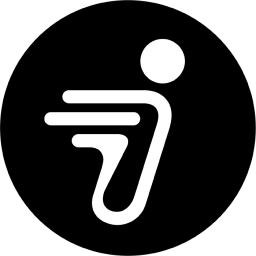
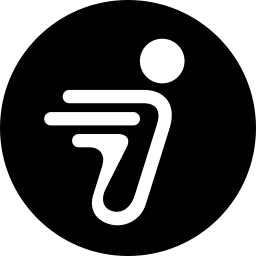
Prepare Ninebot branding and installation for the default catalog

diff --git a/scripts/docs_preview.py b/scripts/docs_preview.py
@@ -10,16 +10,23 @@ ROOT = Path(__file__).resolve().parents[1]
 
 
 def branding() -> bytes:
-    """Compare the existing packaged icon on light/dark surfaces, unchanged."""
+    """Compare the packaged brand images on light and dark surfaces."""
     return b"""<!doctype html><meta charset="utf-8"><title>Brand review</title>
 <style>body{font:18px system-ui;margin:32px;background:#ddd;color:#123}
-section{display:inline-block;padding:24px;margin:12px;border-radius:12px}
-.light{background:#fff}.dark{background:#18232b;color:#fff}img{margin:16px}</style>
-<h1>Existing Ninebot integration icon</h1><p>Repository asset, not a new logo.</p>
-<section class="light">Light<br><img src="/ninebot-brand/icon.png" width="96" alt="96px">
-<img src="/ninebot-brand/icon.png" width="32" alt="32px"></section>
-<section class="dark">Dark fallback<br><img src="/ninebot-brand/icon.png" width="96" alt="96px">
-<img src="/ninebot-brand/icon.png" width="32" alt="32px"></section>"""
+section{padding:24px;margin:12px 0;border-radius:12px;max-width:520px}
+.light{background:#fff}.dark{background:#18232b;color:#fff}
+img{margin:12px;vertical-align:middle;max-width:100%;height:auto}</style>
+<h1>Ninebot brand preview</h1>
+<section class="light">Light<br>
+<img src="/ninebot-brand/icon.png" srcset="/ninebot-brand/icon@2x.png 2x"
+     width="32" alt="Ninebot icon">
+<img src="/ninebot-brand/logo.png" srcset="/ninebot-brand/logo@2x.png 2x"
+     width="330" alt="Ninebot logo"></section>
+<section class="dark">Dark<br>
+<img src="/ninebot-brand/dark_icon.png" srcset="/ninebot-brand/dark_icon@2x.png 2x"
+     width="32" alt="Ninebot icon">
+<img src="/ninebot-brand/dark_logo.png" srcset="/ninebot-brand/dark_logo@2x.png 2x"
+     width="330" alt="Ninebot logo"></section>"""
 
 
 def document(language: str = "en", scale: str = "1") -> bytes:
@@ -44,9 +51,19 @@ def document(language: str = "en", scale: str = "1") -> bytes:
 
 
 def asset(path: str) -> Path:
-    """Only expose packaged frontend assets, never the configuration or repo."""
-    if path == "/ninebot-brand/icon.png":
-        return ROOT / "custom_components/ninebot/brand/icon.png"
+    """Resolve a packaged frontend or brand preview image."""
+    name = path.removeprefix("/ninebot-brand/")
+    if path != name and name in {
+        "icon.png",
+        "icon@2x.png",
+        "logo.png",
+        "logo@2x.png",
+        "dark_icon.png",
+        "dark_icon@2x.png",
+        "dark_logo.png",
+        "dark_logo@2x.png",
+    }:
+        return ROOT / "custom_components/ninebot/brand" / name
     prefix = "/ninebot-static/"
     if not path.startswith(prefix):
         raise ValueError("Not a preview asset")

diff --git a/scripts/check_docs.py b/scripts/check_docs.py
@@ -178,6 +178,26 @@ def asset_errors(root: Path) -> list[str]:
     return errors
 
 
+def brand_errors(root: Path) -> list[str]:
+    """Check the complete packaged brand set without a development dependency."""
+    brand = root / "custom_components/ninebot/brand"
+    errors = []
+    for prefix in ("", "dark_"):
+        for kind, (width, height) in {"icon": (256, 256), "logo": (904, 192)}.items():
+            for scale, suffix in ((1, ""), (2, "@2x")):
+                path = brand / f"{prefix}{kind}{suffix}.png"
+                expected = (".png", scale * width, scale * height)
+                try:
+                    content = path.read_bytes()
+                    if image_size(content) != expected or content[25:26] != b"\x06":
+                        errors.append(
+                            f"{path.name} must be a transparent PNG of size {expected[1:]}"
+                        )
+                except (OSError, ValueError):
+                    errors.append(f"Missing or malformed brand asset: {path.name}")
+    return errors
+
+
 def audit(root: Path) -> tuple[list[str], int]:
     """Only inspect public Git files, never a parent workspace/capture tree."""
     tracked = (
@@ -207,6 +227,7 @@ def audit(root: Path) -> tuple[list[str], int]:
         ]:
             errors.append(f"Bilingual outline differs: {english}, {chinese}")
     errors.extend(asset_errors(root))
+    errors.extend(brand_errors(root))
     return errors, len(paths)
 
 
@@ -217,7 +238,7 @@ def main() -> None:
         raise SystemExit(f"Documentation check failed: {type(error).__name__}") from error
     if errors:
         raise SystemExit("\n".join(errors))
-    print(f"Documentation: {count} Markdown files; links, NOTICE, assets and outlines OK")
+    print(f"Documentation: {count} Markdown files; links, NOTICE, assets, brand and outlines OK")
     print("External availability, translation meaning and screenshot privacy require human review.")
 
 

diff --git a/docs/development.md b/docs/development.md
@@ -219,42 +219,35 @@ The sixteen architecture SVGs (four diagrams × two languages × two themes) are
 
 ## HACS readiness and branding
 
-The repository distributes one integration under `custom_components/ninebot`, with runtime assets inside that directory. `manifest.json` supplies integration metadata; `hacs.json` selects the packaged ZIP and declared minimum HA. Installation currently uses **HACS Custom repository**.
+The root `hacs.json` describes one integration, `custom_components/ninebot`. The manifest declares domain `ninebot` and the vehicles category. Every packaged release places the contents of that integration directory at the root of `ninebot.zip`. User settings and archives live outside the integration directory, so replacing installed files preserves them. Keep the exact `ninebot.zip` filename and attach it before `SHA256SUMS`. [Integration packaging](https://contributors.home-assistant.io/marketplace/guides/integrations/) · [Releases and updates](https://contributors.home-assistant.io/marketplace/guides/releases/)
 
-Before applying for default inclusion, review the [HACS integration requirements](https://www.hacs.xyz/docs/publish/integration/) and [submission process](https://www.hacs.xyz/docs/publish/include/), then check:
+The brand set in `custom_components/ninebot/brand/` contains:
 
-- Final released manifest, package layout, public guides and issue tracker.
-- Successful HACS and Hassfest validation on the release candidate.
-- MIT license, [NOTICE](../NOTICE), runtime attribution and artwork permission.
-- Brand variants and readability on light/dark backgrounds.
+| Shape | Light theme | Dark theme | Sizes |
+|---|---|---|---|
+| Square | `icon.png`, `icon@2x.png` | `dark_icon.png`, `dark_icon@2x.png` | 256 × 256, 512 × 512 |
+| Horizontal | `logo.png`, `logo@2x.png` | `dark_logo.png`, `dark_logo@2x.png` | 904 × 192, 1808 × 384 |
 
-The bundled `brand/icon.png` is a 256×256 transparent PNG. Its source/rights and a dark variant remain maintainer follow-ups. HA supports local custom-integration branding from 2026.3; older supported HA may use an upstream image or placeholder. HACS download/icon presentation also depends on the installed HACS version.
[1 lines of base64/hex data omitted]
 
-简体中文：RC／正式发版须提供完整Checks运行ID，发布器核对仓库、工作流、两HA和Node步骤及输入摘要；主线提升只复用相同输入的成功结果，轻量同SHA门禁照常。按任务定位源码与测试，普通改动做相关检查，RC 在固定候选上完成一次最低／当前 HA 综合验证。英文与中文同步维护默认值、单位和迁移说明。短分支回 dev，验收后正常合 main 并回灌；预发布保留对应标志。历史库与身份迁移按专门指南操作，图表、资源和运行文件各有明确目录。
-
+Home Assistant 2026.3+ looks in the installed integration for brand images. Marketplace can show an icon for an uninstalled integration once the catalog has the project and its brand service has scanned the latest release tag. Earlier HA and the retired HACS client can fall back to older brand assets or a placeholder. Use `python scripts/docs_preview.py` and open `/branding` to review both themes locally. [Brand files and fallbacks](https://contributors.home-assistant.io/core/integrations/brands/) · [Marketplace brand sync](https://github.com/home-assistant/brands#marketplace-icons)
 
 ## Marketplace catalog preparation
 
-Ninebot is currently installed as a custom repository. Before submitting it to the shared [Marketplace/HACS catalog](https://contributors.home-assistant.io/marketplace/guides/catalog/), record the reviewed release and successful HACS/Hassfest runs, confirm repository description/topics and issue handling, and verify these items:
+Marketplace and HACS use the same [default integration catalog](https://github.com/hacs/default/blob/master/integration). Until its entry is included, users install Ninebot through the repository link. The core domain `ninebot` and the published package are the same for both store paths. The `CN` metadata describes the verified service region and is used by the old HACS country filter. Marketplace currently ignores that field, so keep the mainland China service note visible in both READMEs. [Catalog requirements](https://contributors.home-assistant.io/marketplace/guides/catalog/) · [Repository metadata](https://contributors.home-assistant.io/marketplace/reference/hacs-json/)
 
-- One integration at `custom_components/ninebot`, with all runtime resources in that directory.
-- A matching manifest/tag/release, `ninebot.zip` and `SHA256SUMS`; a clean install from the selected package.
-- Local `brand` assets, suitable in light and dark themes, and the `vehicles_transport.bikes_scooters` category.
-- Accurate authentication, platform and verified service-region information in the guide; no inferred global server support.
-- Existing naming, unique IDs and Recorder history preserved. Custom views use HA's display-name helper where available.
+1. Verify the public repository's description, topics, enabled issues, license and manifest. Run HACS validation with every check enabled, and run Hassfest on the candidate.
+2. Verify the package from a full GitHub release. The tagged tree contains `hacs.json`, the matching integration manifest and all brand files. Check the ZIP contents, uploaded asset digest and restart behavior. The README's `ha-marketplace:exclude` markers hide GitHub install directions while leaving service requirements visible.
+3. Continue [the existing catalog request](https://github.com/hacs/default/pull/6217) once its release and CI links are ready. The single changed file is `integration`, with one repository entry in case-insensitive alphabetical order. Use the official checklist, permit maintainer edits on the personal fork, and let the upstream checks run.
+4. After review and merge, verify the next catalog refresh finds `Wuty-zju/ha_ninebot`. Test Marketplace search with an account that has never added the repository from a link. Check the catalog icon, the version offered, and its package count.
 
-The catalog is maintained in `hacs/default`. Prepare a sorted integration-list change and the current submission checklist; inclusion is complete only after upstream review/merge and catalog processing. Catalog inclusion and Core inclusion are separate processes.
-
-The generated HA test plugin currently pins an older Core release. `.github/ci.json` therefore separates its compatible full/scoped test boundaries from the exact published Core used by `scripts/check_ha_api.py`. The latter checks installed native API contracts without the plugin or network requests; it does not replace the runtime regression suites. Update the paired runtime boundary when a matching plugin is available. Do not bypass dependency constraints to claim a new-version pass.
-
-简体中文：默认目录申请需附真实发布与官方校验记录，核对包、品牌、分类、区域说明和用户文档；审核合入后才可声明默认可搜。最新 Core 的独立 API 检查与配套测试插件的运行回归分开记录，保留最低版本兼容和实体身份。
-
+简体中文：同一份目录控制 Marketplace 和旧 HACS 的默认搜索。申请时核对正式版标签与品牌图片、完整安装包、仓库公开信息、HACS 全量校验和 Hassfest。按审核员要求在 #6217 继续复审，合入及目录同步后再验证无自定义仓库的首次安装。
 
 ## Package download audit
 
 Run **Actions → Package download audit → Run workflow** on the maintained branch. The read-only workflow paginates the full release catalog (100 per page), excludes drafts and checksums, deduplicates asset IDs and counts only uploaded `ninebot.zip` assets. It includes previews, updates and repeat downloads. Its job summary and `package-download-counts` JSON artifact provide totals, per-release counts, asset IDs and the capture interval. Failed reads fail the job and do not publish a zero count.
 
-The integration sends no installation telemetry. Marketplace/HACS may show its selected release's count, while the README badge is supplied by Shields and its cache. GitHub source archives, clones, mirrors and offline copies cannot be reconstructed as a single installation total. Keep published release assets fixed; the audit does not rewrite README or create a metadata branch.
+The README package badge sums the named ZIP assets across published releases and may lag the audit because of caching. Home Assistant Marketplace selects the version's package by filename and can use the shared catalog's cached count. HACS 2.0.5 reads the first asset of the selected release, so the publisher attaches `ninebot.zip` first. Counts include downloads by testers, updates and repeat downloads. GitHub source archives, clones, cached mirror requests and local copies fall outside these counts. The integration sends no installation telemetry. [Marketplace asset selection](https://github.com/home-assistant/core/blob/2026.11.2/homeassistant/components/marketplace/repositories/base.py) · [HACS 2.0.5 implementation](https://github.com/hacs/integration/blob/2.0.5/custom_components/hacs/repositories/base.py)
 
 The counter is a standard-library maintenance tool: `python -m scripts.download_counts --repository OWNER/REPOSITORY --output downloads.json`, using `GH_TOKEN` with read access. Keep the output outside the runtime directory. Unit checks use synthetic metadata and no network.
 

diff --git a/README.md b/README.md
@@ -6,7 +6,9 @@
 
 English · [简体中文](README_zh.md)
 
-[![Release](https://img.shields.io/badge/dynamic/json?url=https%3A%2F%2Fapi.github.com%2Frepos%2FWuty-zju%2Fha_ninebot%2Freleases%2Flatest&query=%24.tag_name&label=release&color=0ea5e9)](https://github.com/Wuty-zju/ha_ninebot/releases/latest) [![HACS Custom](https://img.shields.io/badge/HACS-Custom_repository-orange)](https://my.home-assistant.io/redirect/hacs_repository/?owner=Wuty-zju&repository=ha_ninebot&category=integration) [![Checks](https://github.com/Wuty-zju/ha_ninebot/actions/workflows/checks.yaml/badge.svg?branch=main)](https://github.com/Wuty-zju/ha_ninebot/actions/workflows/checks.yaml) [![Stars](https://img.shields.io/badge/dynamic/json?url=https%3A%2F%2Fapi.github.com%2Frepos%2FWuty-zju%2Fha_ninebot&query=%24.stargazers_count&label=Stars&color=f5b301)](https://github.com/Wuty-zju/ha_ninebot/stargazers) [![Downloads](https://img.shields.io/github/downloads/Wuty-zju/ha_ninebot/ninebot.zip?label=Downloads&displayAssetName=false&color=22c55e)](https://github.com/Wuty-zju/ha_ninebot/releases)
+<!-- ha-marketplace:exclude-start -->
+[![Release](https://img.shields.io/badge/dynamic/json?url=https%3A%2F%2Fapi.github.com%2Frepos%2FWuty-zju%2Fha_ninebot%2Freleases%2Flatest&query=%24.tag_name&label=release&color=0ea5e9)](https://github.com/Wuty-zju/ha_ninebot/releases/latest) [![Checks](https://github.com/Wuty-zju/ha_ninebot/actions/workflows/checks.yaml/badge.svg?branch=main)](https://github.com/Wuty-zju/ha_ninebot/actions/workflows/checks.yaml) [![Stars](https://img.shields.io/badge/dynamic/json?url=https%3A%2F%2Fapi.github.com%2Frepos%2FWuty-zju%2Fha_ninebot&query=%24.stargazers_count&label=Stars&color=f5b301)](https://github.com/Wuty-zju/ha_ninebot/stargazers) [![Package downloads](https://img.shields.io/github/downloads/Wuty-zju/ha_ninebot/ninebot.zip?label=Package%20downloads&displayAssetName=false&color=22c55e)](https://github.com/Wuty-zju/ha_ninebot/releases)
+<!-- ha-marketplace:exclude-end -->
 
 [Installation](#installation) · [Ride history](#ride-history-and-track-synchronization) · [Ninebot Assistant](#ninebot-assistant) · [Architecture](#how-it-works) · [Documentation](docs/README.md)
 
@@ -34,21 +36,23 @@ Vehicles report different measurements. A missing reading stays unknown, and a r
 
 Home Assistant **2026.1.0 or newer**, a supported 64-bit runtime, and an account with vehicles visible in the Ninebot app. Authentication and live data require internet access. Saved rides can be read locally. The optional native Assistant tools require a compatible HA API and host. [Platform and account requirements](docs/guide.md#requirements)
 
+Sign-in and vehicle discovery are verified with the mainland China Ninebot app service. Availability in other service regions is unverified.
+
+<!-- ha-marketplace:exclude-start -->
 <a id="marketplace--home-assistant-202611"></a>
 
 ### Marketplace · Home Assistant 2026.11 and newer
 
-1. Open **Settings → Marketplace → Custom repositories**. Connect GitHub if prompted.
-2. Add `https://github.com/Wuty-zju/ha_ninebot` as an **Integration**.
-3. Install **Ninebot**, follow any restart prompt, then choose **Add integration → Ninebot**.
+[![Open Ninebot in the Marketplace](https://my.home-assistant.io/badges/marketplace_repository.svg)](https://my.home-assistant.io/redirect/marketplace_repository/?owner=Wuty-zju&repository=ha_ninebot&category=integration)
 
-Ninebot is distributed as a custom repository. [Marketplace installation guide](docs/guide.md#install-through-marketplace--ha-202611) · [Home Assistant Marketplace](https://www.home-assistant.io/blog/2026/11/04/release-202611/#welcome-to-the-marketplace)
+Install from the repository link today. In **Settings → Marketplace → ⋮ → Add from link**, connect GitHub if prompted and enter `Wuty-zju/ha_ninebot` as an **Integration**. Install the stable version and open Ninebot's account setup. Projects in the default catalog can be found through Marketplace search after you accept the Marketplace warning. [Marketplace installation guide](docs/guide.md#install-through-marketplace--ha-202611)
 
 <a id="hacs--recommended"></a>
+<a id="hacs"></a>
 
-### HACS
+### HACS on older Home Assistant versions
 
-1. Open **HACS → ⋮ → Custom repositories** and add the same URL under **Integration**.
+1. Open **HACS → ⋮ → Custom repositories** and add `https://github.com/Wuty-zju/ha_ninebot` as an **Integration**.
 2. Open **Ninebot**, download the stable release and restart when prompted.
 3. Open **Settings → Devices & services → Add integration → Ninebot**.
 
@@ -57,7 +61,9 @@ Ninebot is distributed as a custom repository. [Marketplace installation guide](
 
 ### Manual installation
 
-Download `ninebot.zip` from [Releases](https://github.com/Wuty-zju/ha_ninebot/releases/latest). Extract its contents into `<config>/custom_components/ninebot/` so the manifest sits directly in that directory. Restart Home Assistant and add Ninebot from **Devices & services**. The release also includes `SHA256SUMS`. Home Assistant installs the declared runtime dependency.
+Download `ninebot.zip` from [the latest stable release](https://github.com/Wuty-zju/ha_ninebot/releases/latest). Extract it into `<config>/custom_components/ninebot/` with `manifest.json` directly in that directory. Restart Home Assistant and add Ninebot from **Devices & services**. The release includes `SHA256SUMS`.
+
+<!-- ha-marketplace:exclude-end -->
 
 ### Upgrading from 1.x
 
@@ -174,7 +180,9 @@ A command is sent once. Status reads then check the vehicle for up to 15 seconds
 - Archived tracks and HA backups can contain precise locations. Location exposure and optional external basemap tiles are configurable.
 - Dedicated Assistant reads omit account credentials, raw payloads and precise GPS. The chosen host's data policy applies to the selected local information that reaches it.
 - The health score, rated battery capacity and measured voltage describe different properties. The coordinate system and some point-level units remain unverified.
-- The Downloads badge counts downloads of the published `ninebot.zip` assets, including updates and repeat downloads. Marketplace or HACS can display a selected release's count. [Distribution and download accounting](docs/development.md#package-download-audit)
+<!-- ha-marketplace:exclude-start -->
+- The README package badge sums downloads of the `ninebot.zip` assets across published releases, including updates and repeat downloads. The Marketplace uses the selected version’s package count. HACS 2.0.5 uses the first asset of that version. [Download accounting](docs/development.md#package-download-audit)
+<!-- ha-marketplace:exclude-end -->
 
 ## Next steps
 

diff --git a/README_zh.md b/README_zh.md
@@ -6,7 +6,9 @@
 
 [English](README.md) · 简体中文
 
-[![Release](https://img.shields.io/badge/dynamic/json?url=https%3A%2F%2Fapi.github.com%2Frepos%2FWuty-zju%2Fha_ninebot%2Freleases%2Flatest&query=%24.tag_name&label=release&color=0ea5e9)](https://github.com/Wuty-zju/ha_ninebot/releases/latest) [![HACS Custom](https://img.shields.io/badge/HACS-Custom_repository-orange)](https://my.home-assistant.io/redirect/hacs_repository/?owner=Wuty-zju&repository=ha_ninebot&category=integration) [![Checks](https://github.com/Wuty-zju/ha_ninebot/actions/workflows/checks.yaml/badge.svg?branch=main)](https://github.com/Wuty-zju/ha_ninebot/actions/workflows/checks.yaml) [![Stars](https://img.shields.io/badge/dynamic/json?url=https%3A%2F%2Fapi.github.com%2Frepos%2FWuty-zju%2Fha_ninebot&query=%24.stargazers_count&label=Stars&color=f5b301)](https://github.com/Wuty-zju/ha_ninebot/stargazers) [![Downloads](https://img.shields.io/github/downloads/Wuty-zju/ha_ninebot/ninebot.zip?label=Downloads&displayAssetName=false&color=22c55e)](https://github.com/Wuty-zju/ha_ninebot/releases)
+<!-- ha-marketplace:exclude-start -->
+[![Release](https://img.shields.io/badge/dynamic/json?url=https%3A%2F%2Fapi.github.com%2Frepos%2FWuty-zju%2Fha_ninebot%2Freleases%2Flatest&query=%24.tag_name&label=release&color=0ea5e9)](https://github.com/Wuty-zju/ha_ninebot/releases/latest) [![Checks](https://github.com/Wuty-zju/ha_ninebot/actions/workflows/checks.yaml/badge.svg?branch=main)](https://github.com/Wuty-zju/ha_ninebot/actions/workflows/checks.yaml) [![Stars](https://img.shields.io/badge/dynamic/json?url=https%3A%2F%2Fapi.github.com%2Frepos%2FWuty-zju%2Fha_ninebot&query=%24.stargazers_count&label=Stars&color=f5b301)](https://github.com/Wuty-zju/ha_ninebot/stargazers) [![Package downloads](https://img.shields.io/github/downloads/Wuty-zju/ha_ninebot/ninebot.zip?label=Package%20downloads&displayAssetName=false&color=22c55e)](https://github.com/Wuty-zju/ha_ninebot/releases)
+<!-- ha-marketplace:exclude-end -->
 
 [安装](#安装) · [历史行程](#历史行程轨迹与详情同步) · [Ninebot Assistant](#ninebot-assistant) · [工作原理](#工作原理) · [文档导航](docs/README.md)
 
@@ -34,22 +36,24 @@
 
 需要 Home Assistant **2026.1.0 或更新版本**、受支持的 64 位运行环境，以及在九号 App 中可以查看车辆的账号。登录和实时数据需要联网，已保存的行程可以在本地读取。可选 Assistant 工具还需要兼容的 HA 原生 API 和对话宿主。[运行环境与账号](docs/guide_zh.md#环境要求)
 
+当前已用中国大陆版「九号出行」账号验证。其他服务地区的登录和车辆数据可用性有待验证。
+
+<!-- ha-marketplace:exclude-start -->
 <a id="marketplacehome-assistant-202611"></a>
 
 ### Marketplace · Home Assistant 2026.11 及更新版本
 
-1. 进入 **设置 → Marketplace → 自定义仓库**，按提示关联 GitHub。
-2. 添加 `https://github.com/Wuty-zju/ha_ninebot`，选择 **集成**。
-3. 安装 **Ninebot**，按提示重启，再选择 **添加集成 → Ninebot**。
+[![在 Marketplace 中打开 Ninebot](https://my.home-assistant.io/badges/marketplace_repository.svg)](https://my.home-assistant.io/redirect/marketplace_repository/?owner=Wuty-zju&repository=ha_ninebot&category=integration)
 
-目前以自定义仓库形式分发。[Marketplace 安装指南](docs/guide_zh.md#通过-marketplace-安装ha-202611) · [Home Assistant Marketplace](https://www.home-assistant.io/blog/2026/11/04/release-202611/#welcome-to-the-marketplace)
+目前通过链接安装。打开 **设置 → Marketplace → ⋮ → 通过链接添加**，按提示连接 GitHub，输入 `Wuty-zju/ha_ninebot`，类别选 **集成**。安装正式版后，进入 Ninebot 的账号设置。同意 Marketplace 提示后，默认目录中的项目可直接搜索并安装。 [Marketplace 安装指南](docs/guide_zh.md#通过-marketplace-安装ha-202611)
 
 <a id="hacs--推荐"></a>
+<a id="hacs"></a>
 
-### HACS
+### 旧版本 Home Assistant 上的 HACS
 
-1. 打开 **HACS → ⋮ → 自定义仓库**，添加上面的仓库地址，类型选 **集成**。
-2. 打开 **Ninebot**，下载正式版并按提示重启。
+1. 打开 **HACS → ⋮ → 自定义仓库**，添加 `https://github.com/Wuty-zju/ha_ninebot`，类型选 **集成**。
+2. 选择 **Ninebot**，安装正式版并按提示重启。
 3. 前往 **设置 → 设备与服务 → 添加集成 → Ninebot**。
 
 [![打开 HACS 仓库](https://my.home-assistant.io/badges/hacs_repository.svg)](https://my.home-assistant.io/redirect/hacs_repository/?owner=Wuty-zju&repository=ha_ninebot&category=integration)
@@ -57,7 +61,9 @@
 
 ### 手动安装
 
-从[最新正式版](https://github.com/Wuty-zju/ha_ninebot/releases/latest)下载 `ninebot.zip`，解压到 `<config>/custom_components/ninebot/`，使该目录直接包含 `manifest.json`。重启后到“设备与服务”添加 Ninebot。发行包同时提供 `SHA256SUMS`。Home Assistant 会安装清单声明的运行依赖。
+从[最新正式版](https://github.com/Wuty-zju/ha_ninebot/releases/latest)下载 `ninebot.zip`，解压至 `<config>/custom_components/ninebot/`，使该目录直接包含 `manifest.json`。重启后在「设备与服务」添加 Ninebot。发行版同时提供 `SHA256SUMS`。
+
+<!-- ha-marketplace:exclude-end -->
 
 ### 从 1.x 升级
 
@@ -174,7 +180,9 @@
 - 历史轨迹和 HA 备份可能含精确位置。可以分别选择是否展示位置、是否加载外部底图。
 - Assistant 专属读取工具省略账号凭据、原始响应和精确 GPS。提交给宿主的选定信息受该宿主的数据政策约束。
 - 电池健康评分、额定容量和实测电压各有独立含义。坐标系和部分轨迹采样单位仍有待验证。
-- Downloads 徽章统计各发行版 `ninebot.zip` 附件的下载次数，含更新和重复下载。Marketplace 或 HACS 可展示相应发行版的计数。[分发和下载量口径](docs/development.md#package-download-audit)
+<!-- ha-marketplace:exclude-start -->
+- README 的包下载徽章累加公开发行版中 `ninebot.zip` 附件的下载，含更新和重复下载。Marketplace 显示所选版本包的计数，数据会随目录刷新。旧 HACS 2.0.5 读取所选版本的首个附件。 [下载量口径](docs/development.md#package-download-audit)
+<!-- ha-marketplace:exclude-end -->
 
 ## 后续方向
 

diff --git a/docs/guide.md b/docs/guide.md
@@ -29,27 +29,25 @@ Vehicle profiles refresh hourly. Higher speed increases cloud requests, subject 
 
 ## Install through Marketplace — HA 2026.11+
 
-Open **Settings → Marketplace → Custom repositories**, connect GitHub when prompted, and add `https://github.com/Wuty-zju/ha_ninebot` as an **Integration**. Install your chosen release and add a Ninebot account. First installs can open setup directly; updates to loaded integrations require the prompted restart.
+1. As an administrator, open **Settings → Marketplace** and accept the Marketplace warning.
+2. Install from **⋮ → Add from link** today. Connect GitHub when prompted, enter `Wuty-zju/ha_ninebot`, and choose **Integration**.
+3. Open **Ninebot** and install the stable release. A first install can open account setup immediately. If HA already loaded Ninebot, follow the restart reminder in Repairs.
 
-A custom repository is currently required. Default-catalog inclusion has a separate review; Marketplace and older HACS use the same catalog and release packages. Brand images are bundled with the integration.
+Once included in the default catalog, **Ninebot** can be installed directly from Marketplace search. The GitHub connection is part of adding a custom repository from a link. [Marketplace instructions](https://www.home-assistant.io/integrations/marketplace/) · [Default catalog](https://github.com/hacs/default/blob/master/integration)
 
 ## Install with HACS
 
-1. In HACS, open the three-dot menu and choose **Custom repositories**.
-2. Add `https://github.com/Wuty-zju/ha_ninebot` with type **Integration**.
-3. Open **Ninebot**, choose **v2.2.0**, and download it.
-4. Restart Home Assistant when prompted. A downloaded file version alone does not mean the running integration has loaded it.
-5. Go to **Settings → Devices & services → Add integration → Ninebot**.
+On supported Home Assistant versions earlier than 2026.11, open **HACS → ⋮ → Custom repositories**. Add `https://github.com/Wuty-zju/ha_ninebot` as an **Integration**, open **Ninebot** and download the stable release. Restart when prompted, then choose **Settings → Devices & services → Add integration → Ninebot**. After listing, search in HACS. If you use its country filter, select China or **All**.
 
-[Open the HACS repository](https://my.home-assistant.io/redirect/hacs_repository/?owner=Wuty-zju&repository=ha_ninebot&category=integration) · [Add Ninebot](https://my.home-assistant.io/redirect/config_flow_start/?domain=ninebot)
-
-These links open your configured Home Assistant instance. Install HACS first, then add this **custom repository**.
+Home Assistant 2026.11 migrates installed HACS projects, custom repositories and update entities into Marketplace at startup. [HACS migration](https://www.home-assistant.io/integrations/marketplace/#coming-from-hacs)
 
 ## Install manually
 
-Download `ninebot.zip` from the selected [packaged release](https://github.com/Wuty-zju/ha_ninebot/releases). Its root contains the integration files: extract them into `<config>/custom_components/ninebot`, then restart Home Assistant and add the integration. For older versions or automatic GitHub source archives, copy the contained `custom_components/ninebot` directory instead. Do not copy the entire development repository or overlay files from different releases.
+Download the stable `ninebot.zip` from [Releases](https://github.com/Wuty-zju/ha_ninebot/releases/latest). Extract it into `<config>/custom_components/ninebot/` with `manifest.json` at that folder's root. Restart and add Ninebot. For a manual update, back up the configuration, replace that integration folder with the new files and restart. The package contains all runtime code, translations, brand images and dashboard assets.
 
-All runtime Python, translations, branding and dashboard assets are inside that integration directory. No separate service, external dashboard package or repository-root script needs to be installed manually.
+## Update an installed integration
+
+Marketplace updates appear in **Settings → Updates**. Install the selected release and follow the restart reminder in **Repairs**. Your existing Ninebot account entries and local trip archives carry over. Marketplace normally checks its catalog every six hours. Repositories added from a link read their version from GitHub. Pre-releases require opt-in, and older supported HA versions can choose an earlier compatible release. [Upgrade and rollback](migration.md) · [Marketplace updates](https://www.home-assistant.io/integrations/marketplace/#keeping-installations-up-to-date)
 
 ## Add accounts and vehicles
 

diff --git a/docs/guide_zh.md b/docs/guide_zh.md
@@ -29,27 +29,25 @@
 
 ## 通过 Marketplace 安装（HA 2026.11+）
 
-打开**设置 → Marketplace → 自定义仓库**，按提示连接 GitHub，添加 `https://github.com/Wuty-zju/ha_ninebot`，类别为**集成**。安装所需版本后添加 Ninebot 账号。首次安装可直接进入配置；更新已加载的集成时按提示重启。
+1. 使用管理员账号进入 **设置 → Marketplace**，阅读并确认商店提示。
+2. 当前从 **⋮ → 通过链接添加** 安装。按提示连接 GitHub，输入 `Wuty-zju/ha_ninebot`，类别选择 **集成**。
+3. 打开 **Ninebot**，选择正式版并安装。首次安装可直接进入添加账号流程。如果 HA 已经加载了此集成，请根据「修复」提示重启。
 
-当前需添加自定义仓库。进入默认目录需要独立审核；Marketplace 与旧版 HACS 使用同一目录和发布包。随包提供品牌图标，无需另一套品牌下载配置。
+进入默认目录后，安装入口为 Marketplace 中搜索 **Ninebot**。目录收录后可直接安装，连接 GitHub 属于链接添加自定义仓库的步骤。[Marketplace 使用说明](https://www.home-assistant.io/integrations/marketplace/) · [默认目录](https://github.com/hacs/default/blob/master/integration)
 
 ## 通过 HACS 安装
 
-1. HACS 右上角三点菜单 → **自定义仓库**。
-2. 添加 `https://github.com/Wuty-zju/ha_ninebot`，类型选择 **集成 Integration**。
-3. 打开 **Ninebot**，选择 **v2.2.0** 并下载。
-4. 按提示重启 HA。文件版本更新不代表运行中的集成已加载新版。
-5. **设置 → 设备与服务 → 添加集成 → Ninebot**。
+在 Home Assistant 2026.11 之前的受支持版本中，进入 **HACS → ⋮ → 自定义仓库**。添加 `https://github.com/Wuty-zju/ha_ninebot`，类别选 **集成**。打开 **Ninebot**，下载正式版，按提示重启，再到 **设置 → 设备与服务 → 添加集成** 中选择 Ninebot。收录后可直接在 HACS 搜索；若设置了国家筛选，选择中国或「全部」。
 
-[打开 HACS 仓库](https://my.home-assistant.io/redirect/hacs_repository/?owner=Wuty-zju&repository=ha_ninebot&category=integration) · [添加 Ninebot](https://my.home-assistant.io/redirect/config_flow_start/?domain=ninebot)
-
-链接打开你配置的 HA，不会安装 HACS 本身。当前通过**自定义仓库**分发，不宣称已进入 HACS 默认列表。
+从旧 HACS 升级到 Home Assistant 2026.11 时，Marketplace 会自动接管已安装项目、自定义仓库和更新实体。[HACS 迁移说明](https://www.home-assistant.io/integrations/marketplace/#coming-from-hacs)
 
 ## 手动安装
 
-下载所选 [GitHub Release](https://github.com/Wuty-zju/ha_ninebot/releases) 的 `ninebot.zip`，将包内文件解压到 `<config>/custom_components/ninebot`，重启后添加集成。旧版本若没有此附件，则从源码包中复制 `custom_components/ninebot`。不要把整个开发仓库复制进配置目录，也不要混合不同版本文件。
+从[发行页](https://github.com/Wuty-zju/ha_ninebot/releases/latest)下载正式版的 `ninebot.zip`，将内容解压至 `<config>/custom_components/ninebot/`，使该目录直接包含 `manifest.json`。重启后添加 Ninebot。手动更新可备份配置后替换集成目录，再重启。运行代码、翻译、品牌图和面板资源都随该目录分发。
 
-所有运行所需 Python、翻译、品牌和卡片资源都随集成目录分发，无需手动安装独立服务、另一个卡片包或仓库根脚本。
+## 更新已安装的集成
+
+Marketplace 的更新出现在 **设置 → 更新**。选择发布版并在安装后按「修复」提示重启。继续使用原有 Ninebot 账号条目和本地行程档案。Marketplace 通常每六小时刷新目录；链接添加的仓库从 GitHub 读取版本。预发布需要单独开启。较旧的 HA 可在商店中选用兼容的历史版本。[升级与回退](migration_zh.md) · [Marketplace 更新说明](https://www.home-assistant.io/integrations/marketplace/#keeping-installations-up-to-date)
 
 ## 添加账号与车辆
 
